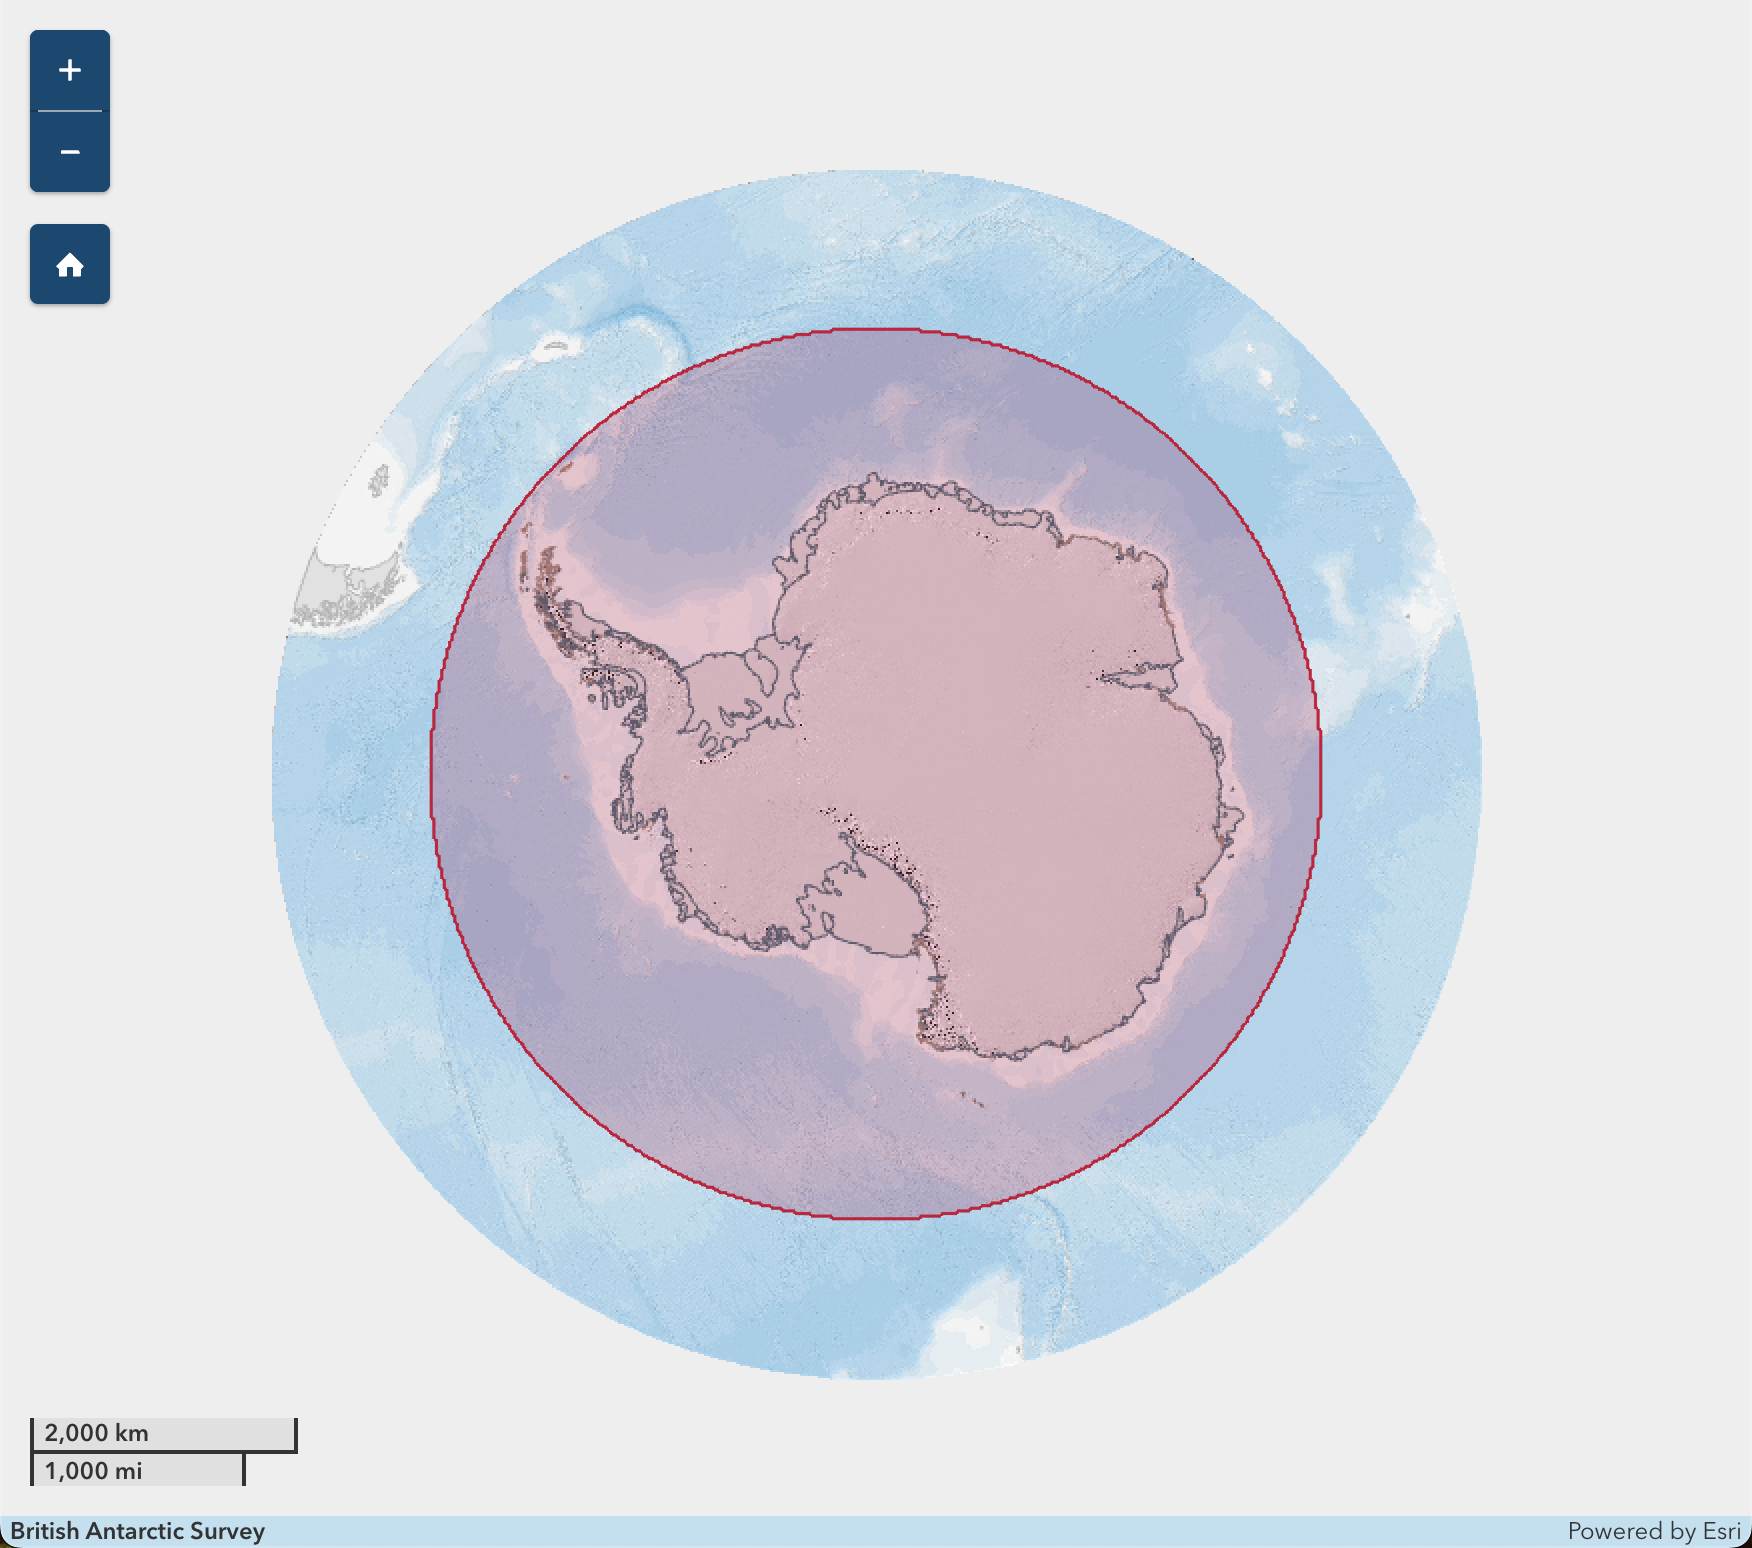
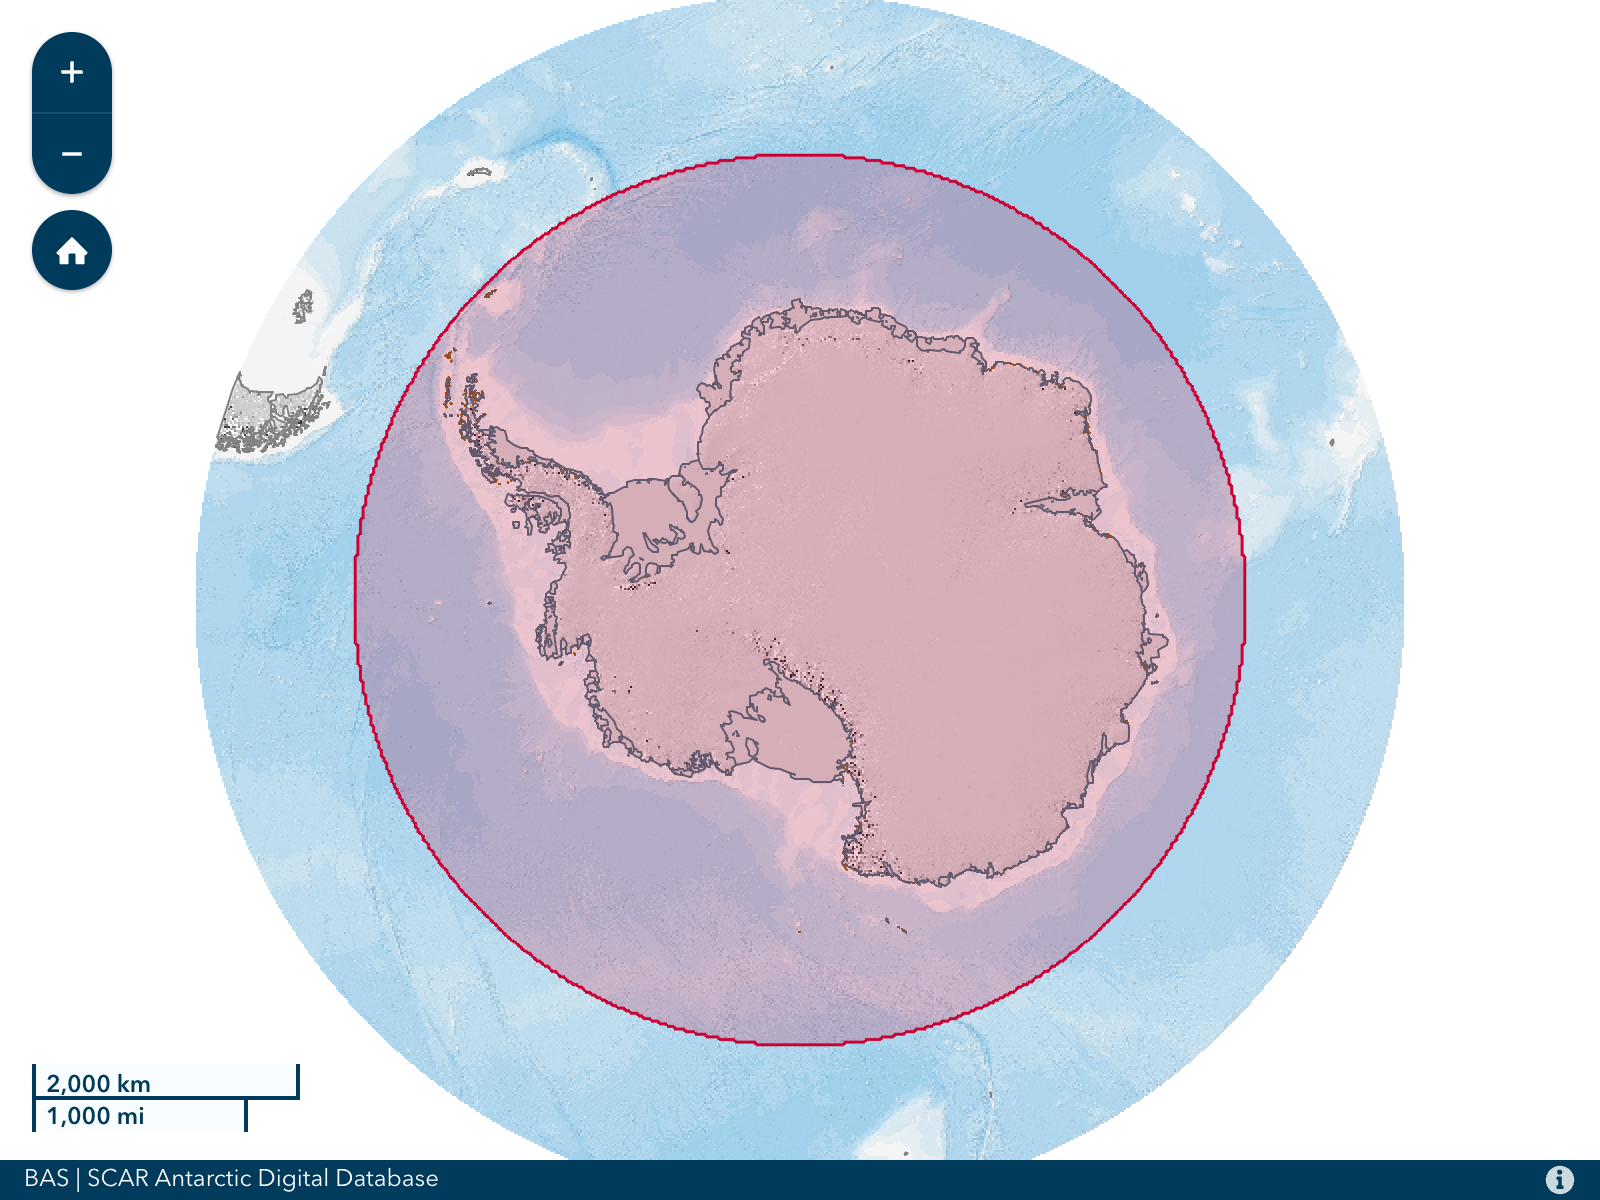
docs: point README at v2 endpoint and update example images

diff --git a/README.md b/README.md
@@ -16,24 +16,16 @@ Features include:
 
 Examples:
 
-<table style="width: 100%; table-layout: fixed; border-collapse: collapse;">
-  <tr>
-    <td style="width: 50%; text-align: center;">
-      <img src="https://github.com/antarctica/embedded-maps/blob/v0.2.0/docs/example-1.png" alt="example-antarctica" style="width: 100%; height: auto;" />
-    </td>
-    <td style="width: 50%; text-align: center;">
-      <img src="https://github.com/antarctica/embedded-maps/blob/v0.2.0/docs/example-2.png" alt="example-ship-tracking" style="width: 100%; height: auto;" />
-    </td>
-  </tr>
-  <tr>
-    <td style="width: 50%; text-align: center; word-wrap: break-word;">
-      <code>https://embedded-maps.data.bas.ac.uk/v1/?bbox=[-180, -90, 180, -60]</code>
-    </td>
-    <td style="width: 50%; text-align: center; word-wrap: break-word;">
-      <code>https://embedded-maps.data.bas.ac.uk/v1/?asset-id=01JDRYA29AR6PFGXVCZ40V8C74&amp;scale=500000&amp;globe-overview</code>
-    </td>
-  </tr>
-</table>
+<p align="center">
+  <a href="https://embedded-maps.data.bas.ac.uk/v2/?bbox=[-180,-90,180,-60]"><img src="docs/example-1.png" alt="Antarctic bounding box map" width="48%" /></a>
+  <a href="https://embedded-maps.data.bas.ac.uk/v2/?asset-id=01JDRYA29AR6PFGXVCZ40V8C74&scale=500000&globe-overview"><img src="docs/example-2.png" alt="Ship tracking with globe overview" width="48%" /></a>
+</p>
+
+<p align="center">
+  <a href="https://embedded-maps.data.bas.ac.uk/v2/?bbox=[-180,-90,180,-60]"><code>?bbox=[-180, -90, 180, -60]</code></a>
+  &nbsp;·&nbsp;
+  <a href="https://embedded-maps.data.bas.ac.uk/v2/?asset-id=01JDRYA29AR6PFGXVCZ40V8C74&scale=500000&globe-overview"><code>?asset-id=…&amp;scale=500000&amp;globe-overview</code></a>
+</p>
 
 > [!TIP]
 > See the [Examples](#examples) section for additional examples.
@@ -59,7 +51,7 @@ project members respectively. Contact the [Project Maintainer](#project-maintain
 This service is accessed from a base endpoint and configured using one or more [Parameters](#parameters), including the 
 target location / feature / asset for the map and which UI controls are visible.
 
-Base endpoint: https://embedded-maps.data.bas.ac.uk/v1/
+Base endpoint: https://embedded-maps.data.bas.ac.uk/v2/
 
 [OpenAPI schema](/docs/openapi.yml).
 
@@ -205,61 +197,61 @@ Set these parameters to visualise the last known position of an asset tracked by
 Centre map at a specific location and zoom level:
 
 ```
-https://embedded-maps.data.bas.ac.uk/v1/?centre=[0.1218,52.2053]&zoom=4
+https://embedded-maps.data.bas.ac.uk/v2/?centre=[0.1218,52.2053]&zoom=4
 ```
 
 Show a bounding box with a globe overview for orientation:
 
 ```
-https://embedded-maps.data.bas.ac.uk/v1/?bbox=[-68.3359,-67.5894,-68.0677,-67.4869]&globe-overview
+https://embedded-maps.data.bas.ac.uk/v2/?bbox=[-68.3359,-67.5894,-68.0677,-67.4869]&globe-overview
 ```
 
 Show multiple bounding boxes with a globe overview:
 
 ```
-https://embedded-maps.data.bas.ac.uk/v1/?bbox=[[-68.3359,-67.5894,-68.0677,-67.4869],[-67.5894,-66.5894,-67.0677,-66.4869]]&globe-overview
+https://embedded-maps.data.bas.ac.uk/v2/?bbox=[[-68.3359,-67.5894,-68.0677,-67.4869],[-67.5894,-66.5894,-67.0677,-66.4869]]&globe-overview
 ```
 
 Show a bounding box, zoomed out to show the full basemap:
 
 ```
-https://embedded-maps.data.bas.ac.uk/v1/?bbox=[10.0,74.0,35.0,81.0]&bbox-force-regional-extent
+https://embedded-maps.data.bas.ac.uk/v2/?bbox=[10.0,74.0,35.0,81.0]&bbox-force-regional-extent
 ```
 
 Show multiple points with different styles and a globe overview:
 
 ```
-https://embedded-maps.data.bas.ac.uk/v1/?points=[[-68.3359,-67.5894],{"longitude":106.8,"latitude":-75.1,"color":"green","size":15}]&globe-overview
+https://embedded-maps.data.bas.ac.uk/v2/?points=[[-68.3359,-67.5894],{"longitude":106.8,"latitude":-75.1,"color":"green","size":15}]&globe-overview
 ```
 
 Enable all available map controls (zoom and reset are also shown by default):
 
 ```
-https://embedded-maps.data.bas.ac.uk/v1/?ctrl-zoom&ctrl-reset&ctrl-fullscreen
+https://embedded-maps.data.bas.ac.uk/v2/?ctrl-zoom&ctrl-reset&ctrl-fullscreen
 ```
 
 Disable all optional map controls:
 
 ```
-https://embedded-maps.data.bas.ac.uk/v1/?ctrl-zoom=false&ctrl-reset=false&ctrl-fullscreen=false
+https://embedded-maps.data.bas.ac.uk/v2/?ctrl-zoom=false&ctrl-reset=false&ctrl-fullscreen=false
 ```
 
 Show the latest position of the SDA:
 
 ```
-https://embedded-maps.data.bas.ac.uk/v1/?asset-id=01JDRYA29AR6PFGXVCZ40V8C74&scale=500000&globe-overview
+https://embedded-maps.data.bas.ac.uk/v2/?asset-id=01JDRYA29AR6PFGXVCZ40V8C74&scale=500000&globe-overview
 ```
 
 Show the latest position of the SDA on a non-interactive display:
 
 ```
-https://embedded-maps.data.bas.ac.uk/v1/?asset-id=01JDRYA29AR6PFGXVCZ40V8C74&asset-force-popup&scale=500000&globe-overview&ctrl-zoom=false&ctrl-reset=false&ctrl-fullscreen=false
+https://embedded-maps.data.bas.ac.uk/v2/?asset-id=01JDRYA29AR6PFGXVCZ40V8C74&asset-force-popup&scale=500000&globe-overview&ctrl-zoom=false&ctrl-reset=false&ctrl-fullscreen=false
 ```
 
 Show all snowmobiles with a globe overview:
 
 ```
-https://embedded-maps.data.bas.ac.uk/v1/?asset-type=98&globe-overview
+https://embedded-maps.data.bas.ac.uk/v2/?asset-type=98&globe-overview
 ```
 
 ### Embedding
@@ -269,7 +261,7 @@ Maps can be embedded in other applications and websites using an iframe.
 For example:
 
 ```html
-<iframe src="https://embedded-maps.data.bas.ac.uk/v1/?center=[-180, -90]" style="border:none;"></iframe>
+<iframe src="https://embedded-maps.data.bas.ac.uk/v2/?center=[-180, -90]" style="border:none;"></iframe>
 ```
 
 > [!IMPORTANT]
@@ -278,7 +270,7 @@ For example:
 
 ```html
 <iframe 
-  src="https://embedded-maps.data.bas.ac.uk/v1/?center=[-180, -90]&zoom=6&globe_overview=true" 
+  src="https://embedded-maps.data.bas.ac.uk/v2/?center=[-180, -90]&zoom=6&globe_overview=true" 
   style="border:none;" allowfullscreen="true" allow="fullscreen"
 ></iframe>
 ```
@@ -397,7 +389,7 @@ To update reference screenshots:
 
 ### Testing environment
 
-Base endpoint for testing: https://embedded-maps-testing.data.bas.ac.uk/v1/
+Base endpoint for testing: https://embedded-maps-testing.data.bas.ac.uk/v2/
 
 > [!WARNING]
 > The test endpoint is used for prototyping upcoming changes and is not stable. Do not use it unless you are told to.
